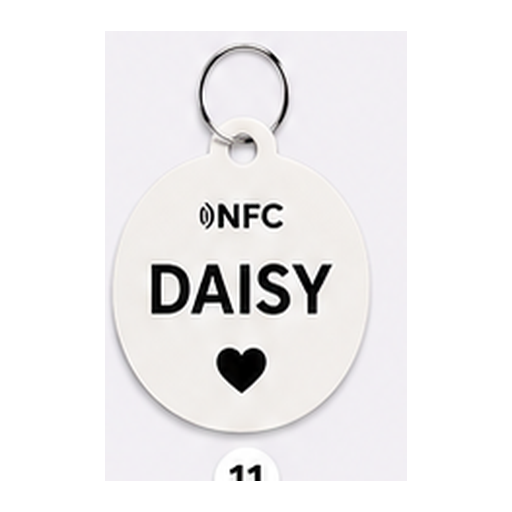
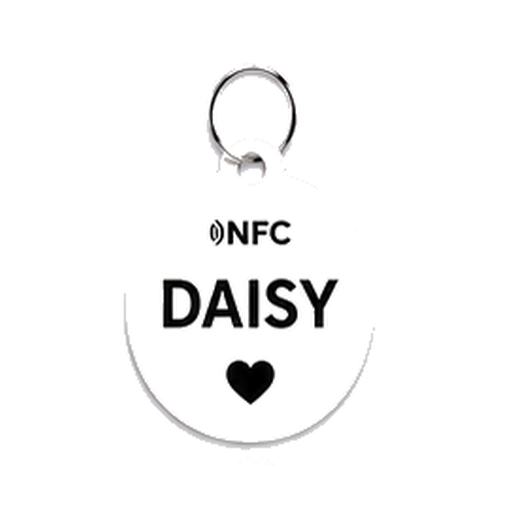
Fix NFC crops: exclude number labels and neighbor bleed
- Clamp each crop to column gutters so shaped tags do not pick up neighbors
- Stop before catalog number discs under each tag
- Use flood-fill isolation for row 3; replace gray catalog bg with white
- Consistent padding and scale across all 21 tags

diff --git a/marketing/nfc-crops/crop-nfc-catalog.py b/marketing/nfc-crops/crop-nfc-catalog.py
@@ -15,7 +15,10 @@ PREVIEW_DIR = Path(__file__).resolve().parent / 'preview'
 
 OUT = 512
 BG_RGB = (231, 229, 234)
-COL_HALF_W = 72
+COL_HALF_W = (86, 86, 90)  # row 3 uses column gutters to avoid neighbor bleed
+GUTTER_INSET = 4
+ROW_BANDS = ((328, 562), (608, 816), (858, 1035))
+ROW_BOTTOM_MAX = (558, 810, 1020)
 
 
 def _fg_mask(arr: np.ndarray, threshold: float = 18) -> np.ndarray:
@@ -42,17 +45,15 @@ def _white_runs(row: np.ndarray, min_w: int = 12, max_w: int = 45) -> list[tuple
     return runs
 
 
-def _find_number_rows(arr: np.ndarray) -> list[int]:
-    """Return y positions of the three inter-row number label bands."""
+def _column_centers(arr: np.ndarray) -> list[int]:
     hits: list[int] = []
     for y in range(480, 1060, 2):
         if len(_white_runs(arr[y])) >= 6:
             hits.append(y)
-
     if not hits:
-        return [566, 822, 1052]
+        w = arr.shape[1]
+        return [int(w * (c + 0.5) / 7) for c in range(7)]
 
-    # Merge nearby hits into bands separated by large vertical gaps (>40px).
     bands: list[list[int]] = [[hits[0]]]
     for y in hits[1:]:
         if y - bands[-1][-1] <= 40:
@@ -60,14 +61,8 @@ def _find_number_rows(arr: np.ndarray) -> list[int]:
         else:
             bands.append([y])
 
-    centers = [band[len(band) // 2] for band in bands[:3]]
-    while len(centers) < 3:
-        centers.append(centers[-1] + 256)
-    return centers[:3]
-
-
-def _column_centers(arr: np.ndarray, number_row_y: int) -> list[int]:
-    runs = _white_runs(arr[number_row_y])
+    center_y = bands[0][len(bands[0]) // 2]
+    runs = _white_runs(arr[center_y])
     if len(runs) >= 7:
         return [((a + b) // 2) for a, b in runs[:7]]
 
@@ -75,61 +70,137 @@ def _column_centers(arr: np.ndarray, number_row_y: int) -> list[int]:
     return [int(w * (c + 0.5) / 7) for c in range(7)]
 
 
+def _strip_number_disc(arr: np.ndarray, fg: np.ndarray, box: tuple[int, int, int, int]) -> tuple[int, int, int, int]:
+    """Drop the catalog number circle if it was captured at the bottom of a box."""
+    left, top, right, bottom = box
+    cx = (left + right) // 2
+    scan_top = max(top, bottom - 36)
+    for y in range(bottom, scan_top, -1):
+        row = arr[y, left:right + 1]
+        fg_count = fg[y, left:right + 1].sum()
+        white = ((row[:, 0] > 240) & (row[:, 1] > 240) & (row[:, 2] > 240)).sum()
+        width = right - left + 1
+        if fg_count < 40 and white > width * 0.18:
+            bottom = y - 1
+            continue
+        if fg_count > 60:
+            break
+    return left, top, right, bottom
+
+
+def _flood_bbox(
+    fg: np.ndarray,
+    y0: int,
+    y1: int,
+    x0: int,
+    x1: int,
+    seed_x: int,
+    seed_y: int,
+) -> tuple[int, int, int, int] | None:
+    from collections import deque
+
+    sub = fg[y0:y1, x0:x1]
+    h, w = sub.shape
+    sx, sy = seed_x - x0, seed_y - y0
+    if not (0 <= sx < w and 0 <= sy < h and sub[sy, sx]):
+        ys, xs = np.where(sub)
+        if len(ys) == 0:
+            return None
+        dist = (ys - sy) ** 2 + (xs - sx) ** 2
+        idx = int(dist.argmin())
+        sy, sx = int(ys[idx]), int(xs[idx])
+
+    visited = np.zeros(sub.shape, bool)
+    queue: deque[tuple[int, int]] = deque([(sy, sx)])
+    visited[sy, sx] = True
+    min_y = max_y = sy
+    min_x = max_x = sx
+
+    while queue:
+        y, x = queue.popleft()
+        min_y, max_y = min(min_y, y), max(max_y, y)
+        min_x, max_x = min(min_x, x), max(max_x, x)
+        for dy, dx in ((1, 0), (-1, 0), (0, 1), (0, -1)):
+            ny, nx = y + dy, x + dx
+            if 0 <= ny < h and 0 <= nx < w and not visited[ny, nx] and sub[ny, nx]:
+                visited[ny, nx] = True
+                queue.append((ny, nx))
+
+    if max_y - min_y < 8 or max_x - min_x < 8:
+        return None
+    return x0 + min_x, y0 + min_y, x0 + max_x, y0 + max_y
+
+
 def detect_tag_boxes(im: Image.Image) -> dict[int, tuple[int, int, int, int]]:
     arr = np.array(im.convert('RGB'))
-    w, h = arr.shape[:2]
+    w, _h = arr.shape[:2]
     fg = _fg_mask(arr)
+    col_centers = _column_centers(arr)
 
-    num_rows = _find_number_rows(arr)
-    col_centers = _column_centers(arr, num_rows[0])
+    # Keep each crop inside the gutter between neighboring catalog columns.
+    gutters = [0]
+    for i in range(len(col_centers) - 1):
+        gutters.append((col_centers[i] + col_centers[i + 1]) // 2)
+    gutters.append(w)
 
-    # Vertical bands: ring row → above numbers → below numbers.
-    row_bands = [
-        (338, num_rows[0] - 30),
-        (num_rows[0] + 20, num_rows[1] - 14),
-        (num_rows[1] + 36, num_rows[2] - 27),
-    ]
+    seed_offset = (75, 70, 60)
 
     boxes: dict[int, tuple[int, int, int, int]] = {}
-    for row_idx, (y0, y1) in enumerate(row_bands):
-        y0 = max(0, y0)
-        y1 = min(h - 1, y1)
+    for row_idx, (y0, y1) in enumerate(ROW_BANDS):
+        half_w = COL_HALF_W[row_idx]
+        bottom_max = ROW_BOTTOM_MAX[row_idx]
         for col, cx in enumerate(col_centers):
-            x0 = max(0, cx - COL_HALF_W)
-            x1 = min(w, cx + COL_HALF_W)
-            sub_fg = fg[y0:y1, x0:x1]
-            ys, xs = np.where(sub_fg)
-            if len(ys) == 0:
-                continue
+            x0 = max(gutters[col] + GUTTER_INSET, cx - half_w)
+            x1 = min(gutters[col + 1] - GUTTER_INSET, cx + half_w)
+            seed_y = y0 + seed_offset[row_idx]
+            box = _flood_bbox(fg, y0, y1, x0, x1, cx, seed_y)
+            if box is None:
+                sub_fg = fg[y0:y1, x0:x1]
+                ys, xs = np.where(sub_fg)
+                if len(ys) == 0:
+                    continue
+                box = (
+                    x0 + int(xs.min()),
+                    y0 + int(ys.min()),
+                    x0 + int(xs.max()),
+                    y0 + int(ys.max()),
+                )
             tag_num = row_idx * 7 + col + 1
-            boxes[tag_num] = (
-                x0 + int(xs.min()),
-                y0 + int(ys.min()),
-                x0 + int(xs.max()),
-                y0 + int(ys.max()),
-            )
+            left, top, right, bottom = box
+            bottom = min(bottom, bottom_max)
+            box = _strip_number_disc(arr, fg, (left, top, right, bottom))
+            boxes[tag_num] = box
     return boxes
 
 
-def crop_tag(im: Image.Image, box: tuple[int, int, int, int], pad: int = 6) -> Image.Image:
+def _whiten_background(img: Image.Image) -> Image.Image:
+    arr = np.array(img.convert('RGBA'))
+    rgb = arr[:, :, :3].astype(float)
+    bg = np.array(BG_RGB, dtype=float)
+    dist = np.sqrt(((rgb - bg) ** 2).sum(axis=2))
+    arr[dist < 26, 3] = 0
+    out = Image.fromarray(arr, 'RGBA')
+    flat = Image.new('RGBA', out.size, (255, 255, 255, 255))
+    flat.paste(out, (0, 0), out)
+    return flat
+
+
+def crop_tag(im: Image.Image, box: tuple[int, int, int, int], pad: int = 10) -> Image.Image:
     left, top, right, bottom = box
     left = max(0, left - pad)
     top = max(0, top - pad)
     right = min(im.width, right + pad)
     bottom = min(im.height, bottom + pad)
 
-    crop = im.crop((left, top, right, bottom))
+    crop = _whiten_background(im.crop((left, top, right, bottom)))
     cw, ch = crop.size
     side = max(cw, ch)
-    scale = (OUT * 0.88) / side
+    scale = (OUT * 0.82) / side
     nw, nh = max(1, int(cw * scale)), max(1, int(ch * scale))
     resized = crop.resize((nw, nh), Image.Resampling.LANCZOS)
 
     canvas = Image.new('RGBA', (OUT, OUT), (255, 255, 255, 255))
-    if resized.mode == 'RGBA':
-        canvas.paste(resized, ((OUT - nw) // 2, (OUT - nh) // 2), resized)
-    else:
-        canvas.paste(resized, ((OUT - nw) // 2, (OUT - nh) // 2))
+    canvas.paste(resized, ((OUT - nw) // 2, (OUT - nh) // 2), resized)
     return canvas
 
 
@@ -172,6 +243,9 @@ def main() -> None:
         draw.text((20 + col * thumb, 35 + row * thumb + thumb - 18), str(i + 1), fill=(100, 116, 139, 255))
     sheet.save(PREVIEW_DIR / 'contact-sheet.png')
     print(f'Wrote {len(crops)} crops to {FINAL_DIR}')
+    for idx, box in sorted(boxes.items()):
+        l, t, r, b = box
+        print(f'  tag {idx:02d}: ({l}, {t}, {r}, {b})')
 
 
 if __name__ == '__main__':
